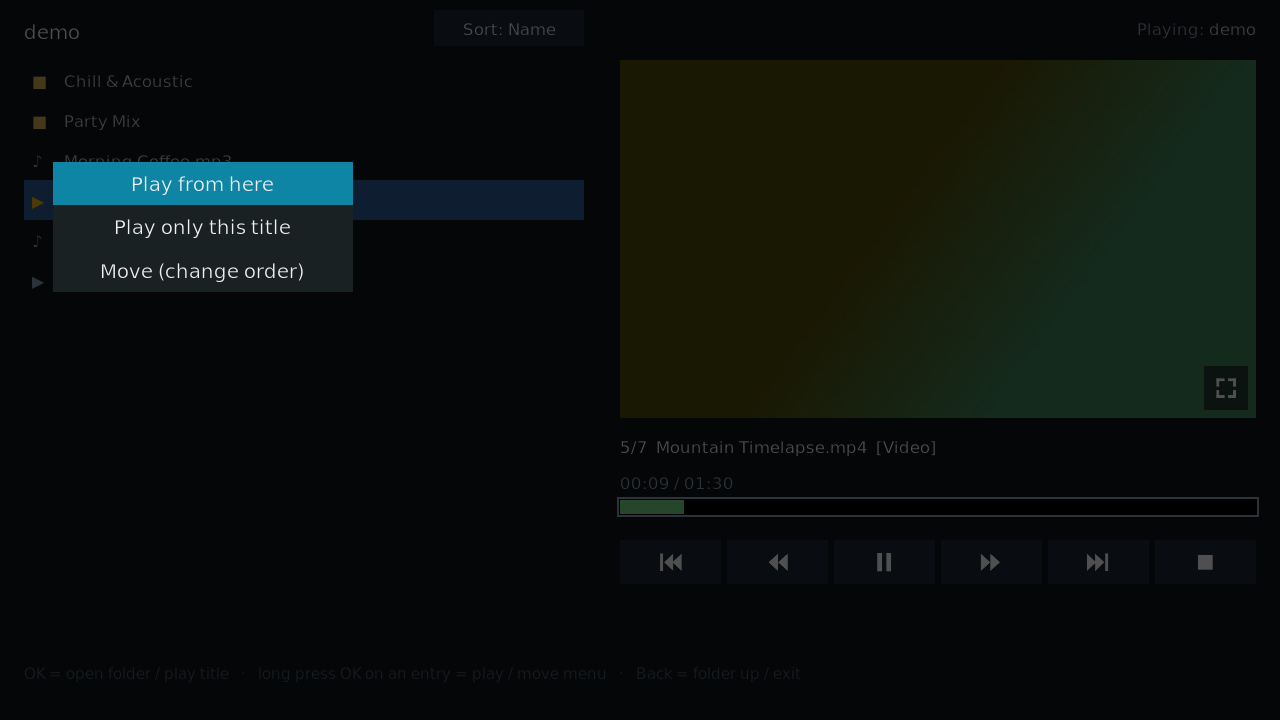
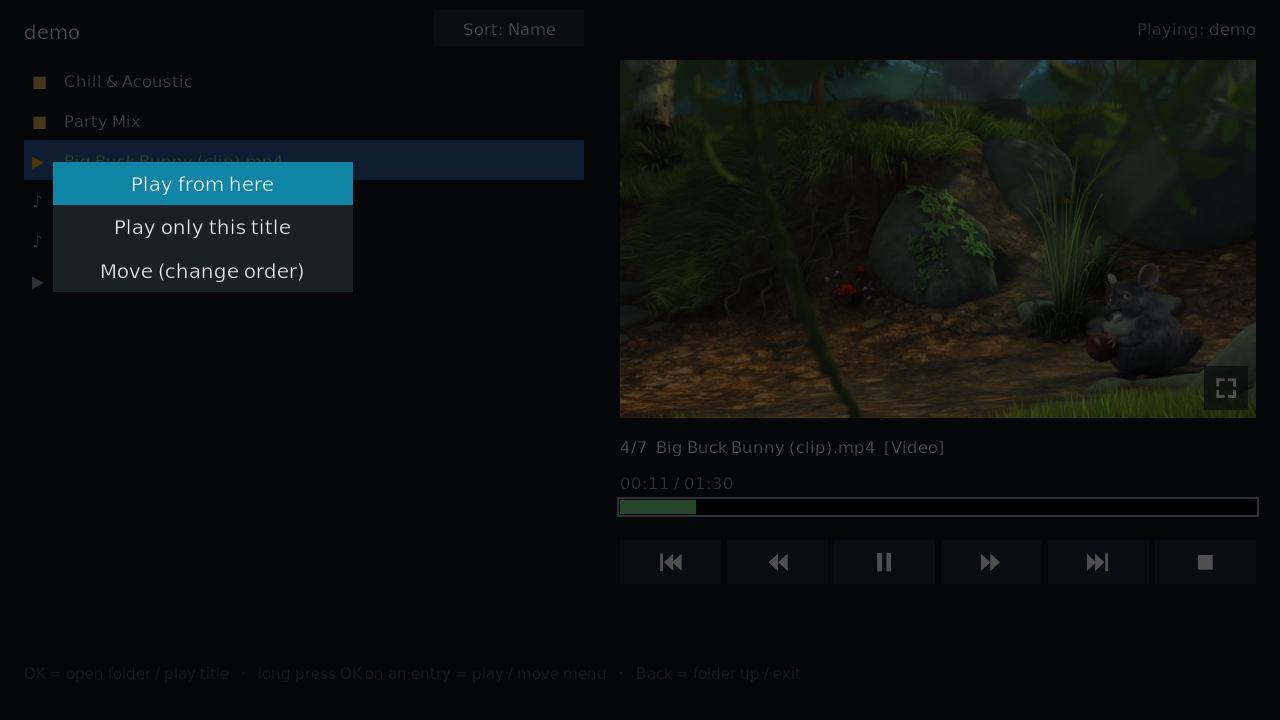
screenshots: real video content (Big Buck Bunny, CC-BY) + installed view
Replaces the ffmpeg gradient demos in the video pane; adds the Kodi home
screen showing where the installed add-on lives. Attribution line added.

Claude-Session: https://claude.ai/code/session_019dfX5gx3bWZpcJXcC8nStw

diff --git a/README.md b/README.md
@@ -13,6 +13,8 @@ Windows) and Kodi 22 beta (Android TV). Landscape only — like Kodi itself.
 <img src="docs/screenshots/move-mode.png" width="49%" alt="Move mode: reorder titles by hand"/>
 </p>
 
+<sub>Video in the screenshots: "Big Buck Bunny", © 2008 Blender Foundation / bigbuckbunny.org (CC-BY 3.0)</sub>
+
 ## Features
 
 - Left: the current folder, subfolders, audio ♪, and video ▶ files.
@@ -29,6 +31,8 @@ Windows) and Kodi 22 beta (Android TV). Landscape only — like Kodi itself.
 2. Add-ons → **Install from zip file** → pick the zip from the
    [latest release](https://github.com/Cosmopolyte/kodi-folderplayer/releases/latest)
 3. Add-ons → Program add-ons → **Folder Player** — on first start it asks for your music folder
+
+<img src="docs/screenshots/kodi-home.png" width="65%" alt="Installed: Add-ons > Program add-ons > Folder Player"/>
 
 Updating: install the newer zip over the old one; settings and custom orders are kept.
 
